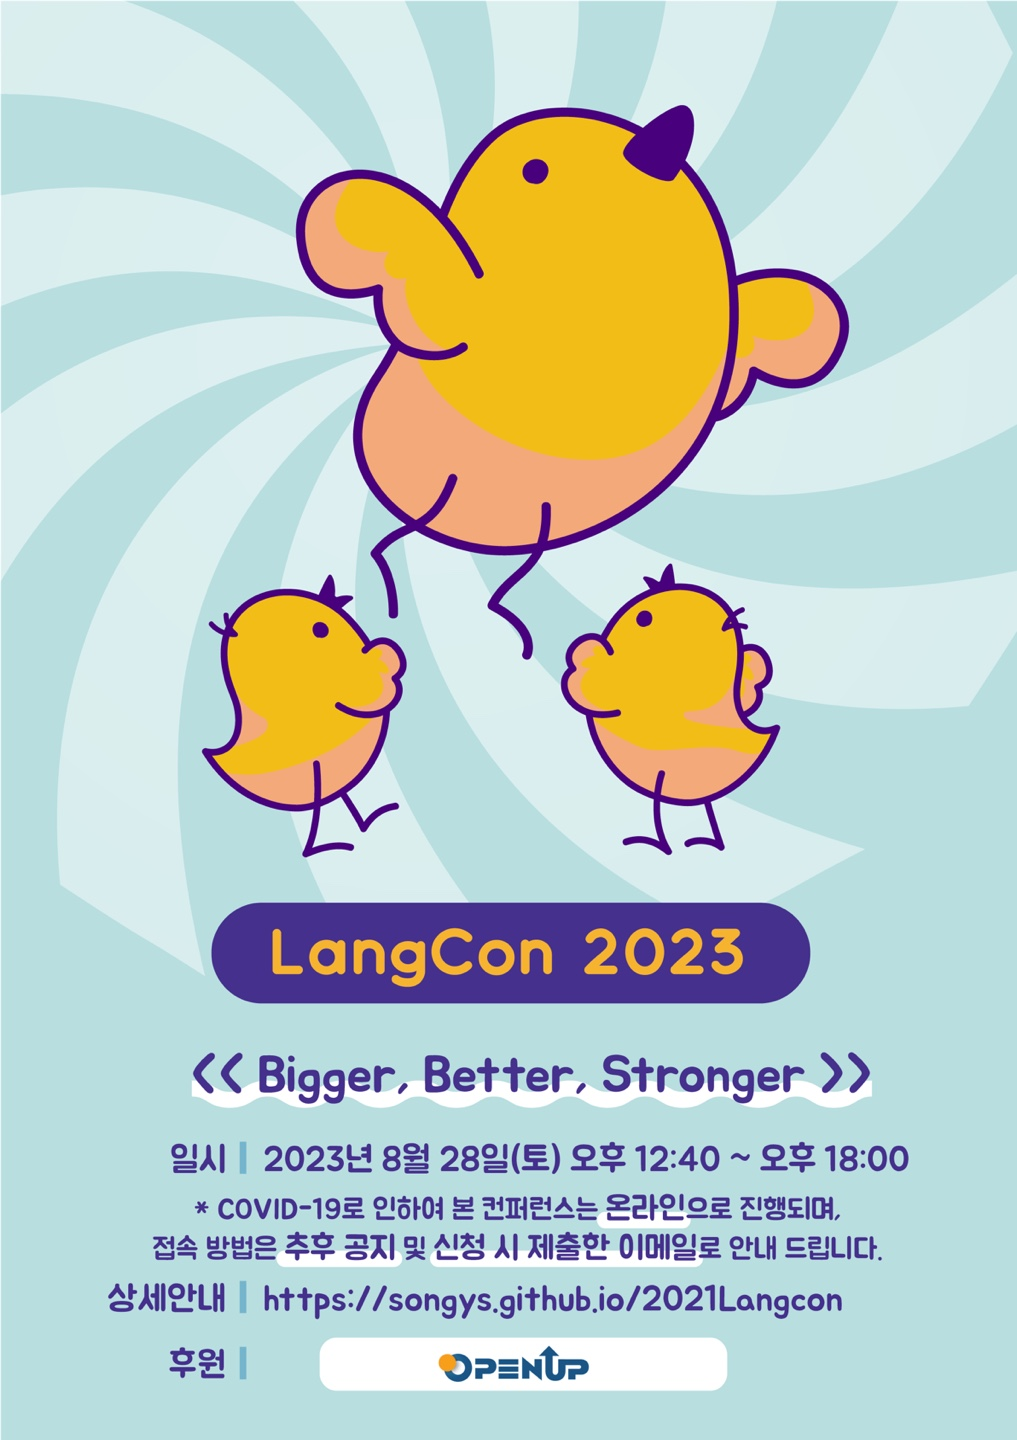
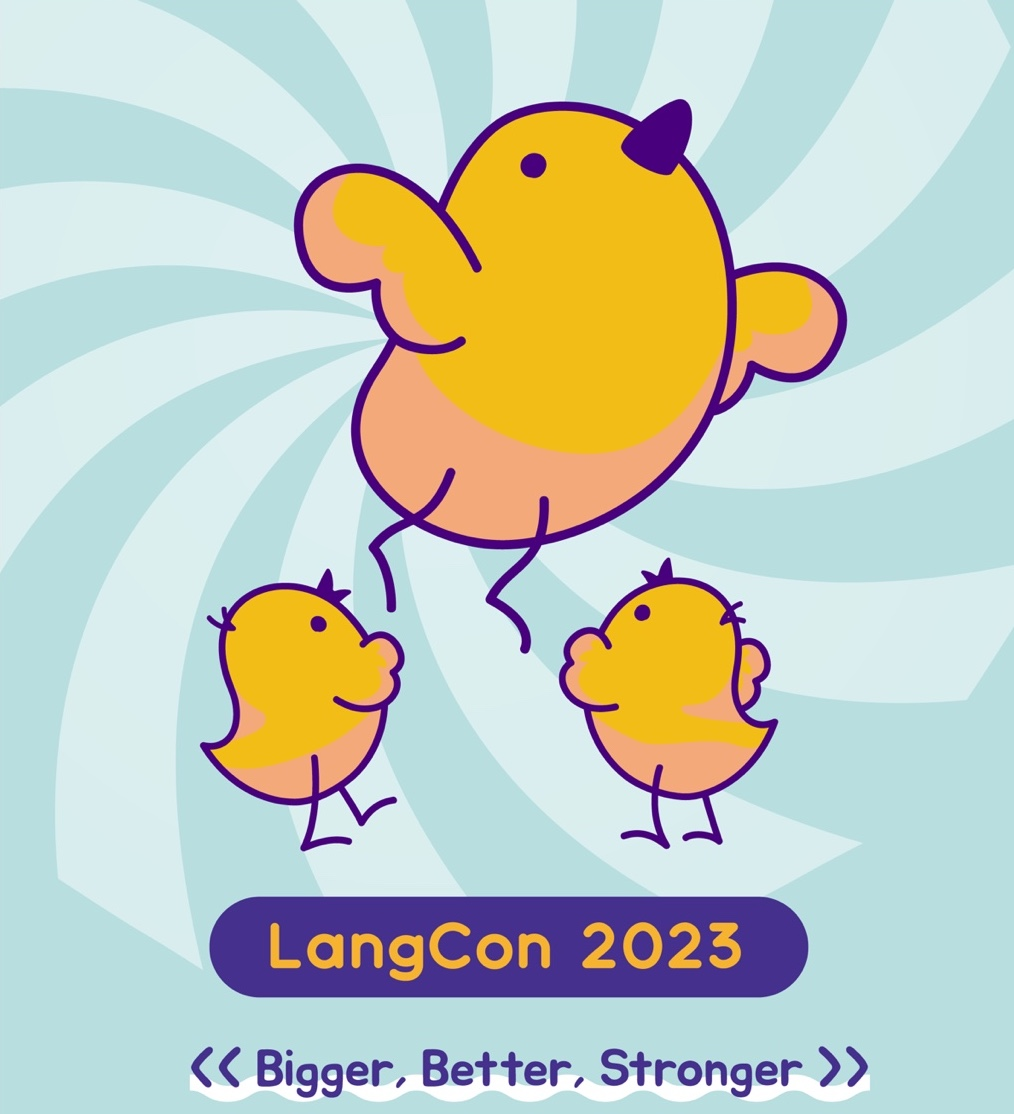
update

diff --git a/index.md b/index.md
@@ -15,8 +15,8 @@ layout: home
                  생성 모델링  및 서비스의 이해         
 
           
-
- <img src="./pic/time.png" width="800"><BR>                       
+ <img src="./pic/main.png" width="800"><BR> 
+ <img src="./pic/time_table.png" width="800"><BR>                       
 
 # 찾아 오시는 길           
 [서울특별시 종로구 중학동 19 더케이트윈타워 A동](http://naver.me/IMlGLw7y) 마이크로소프트 광화문 사옥 13층, Conference 룸                                      
